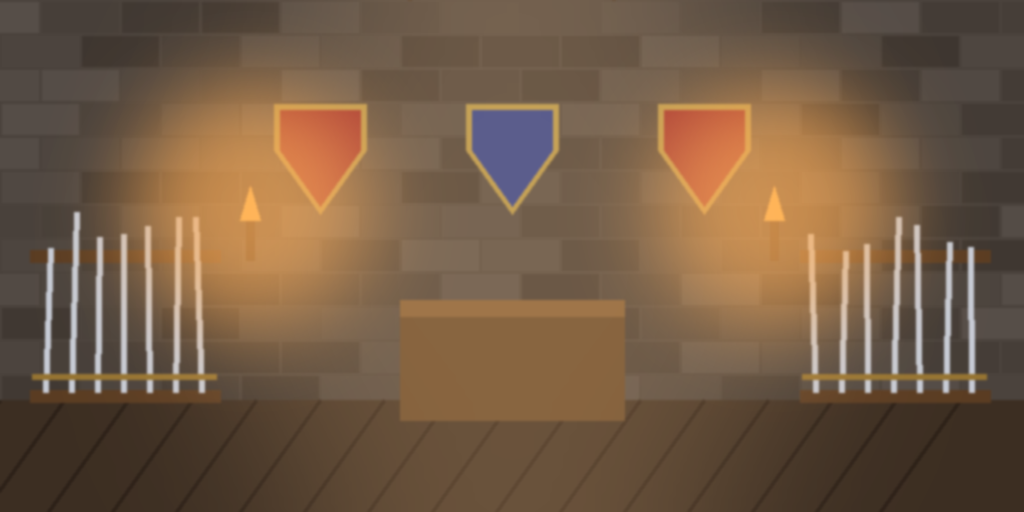
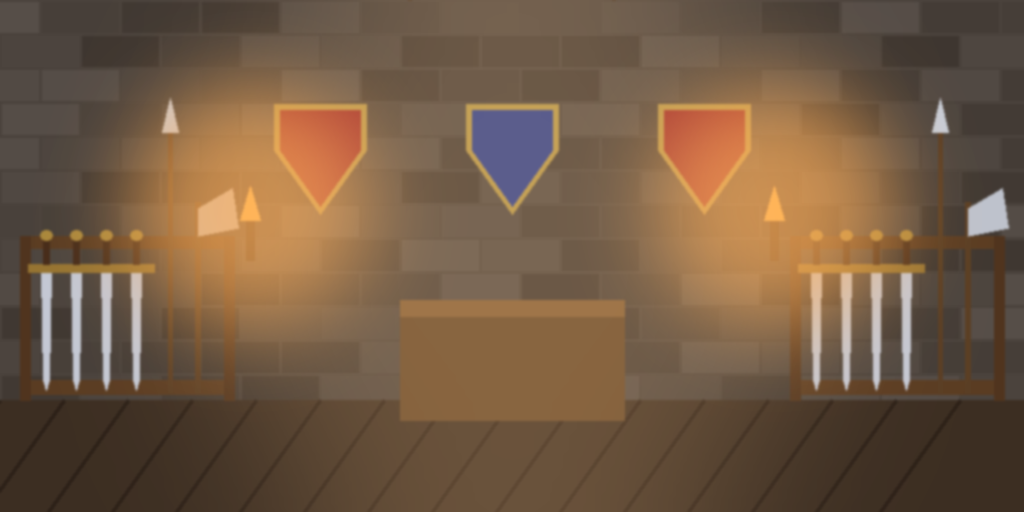
Zbrojownia: poprawiony szkic broni i opis (bez świec)
Claude-Session: https://claude.ai/code/session_01ACpgVGYFhc89V1nkQx4Yem

diff --git a/tools/tla-ai/menu/szkice2.py b/tools/tla-ai/menu/szkice2.py
@@ -26,8 +26,17 @@ def torch(img, d, x, y):
     glow(img, [(x, y - 14, 120, 170)], (255, 170, 80), 40)
 
 
-def sword(d, x, y, h, tilt=0):
-    d.line([(x, y), (x + tilt, y - h)], fill=(200, 204, 214), width=6); d.line([(x - 14, y - 16), (x + 14, y - 16)], fill=(150, 116, 50), width=6)
+def sword(d, x, y, h, tilt=0): # ostrzem w dół, rękojeść u góry (na stojaku)
+    d.polygon([(x - 5, y - h + 40), (x + 5, y - h + 40), (x + 3, y), (x, y + 10), (x - 3, y)], fill=(196, 200, 212))
+    d.rectangle([x - 18, y - h + 34, x + 18, y - h + 42], fill=(150, 116, 50)); d.rectangle([x - 3, y - h + 6, x + 3, y - h + 34], fill=(70, 44, 26)); d.ellipse([x - 6, y - h, x + 6, y - h + 10], fill=(170, 136, 60))
+
+
+def spear(d, x, y, h):
+    d.line([(x, y), (x, y - h)], fill=(90, 62, 36), width=5); d.polygon([(x - 8, y - h), (x, y - h - 34), (x + 8, y - h)], fill=(200, 204, 214))
+
+
+def axe(d, x, y, h):
+    d.line([(x, y), (x, y - h)], fill=(90, 62, 36), width=6); d.polygon([(x, y - h + 6), (x + 34, y - h - 14), (x + 40, y - h + 26), (x, y - h + 34)], fill=(190, 194, 204))
 
 
 def shield(d, x, y, r, col, rim=(180, 150, 70)):
@@ -39,9 +48,11 @@ def zbrojownia():
     img = Image.new('RGB', (W, H)); d = ImageDraw.Draw(img, 'RGBA'); stone_wall(d, 0, 0, W, 400)
     d.rectangle([0, 400, W, H], fill=(60, 46, 34))
     for i in range(0, W, 64): d.line([(i, 400), (i - 80, H)], fill=(44, 32, 24), width=3)
-    for x0 in (30, 800): # stojaki z bronią po bokach
-        d.rectangle([x0, 250, x0 + 190, 262], fill=(90, 60, 34)); d.rectangle([x0, 390, x0 + 190, 402], fill=(90, 60, 34))
-        for k in range(7): sword(d, x0 + 16 + k * 26, 392, 150 + R.randint(-10, 30), R.randint(-6, 6))
+    for x0 in (20, 790): # stojaki z bronią po bokach: miecze, włócznie i topory
+        d.rectangle([x0, 236, x0 + 214, 248], fill=(90, 60, 34)); d.rectangle([x0, 380, x0 + 214, 394], fill=(90, 60, 34))
+        d.rectangle([x0, 236, x0 + 10, 400], fill=(80, 52, 30)); d.rectangle([x0 + 204, 236, x0 + 214, 400], fill=(80, 52, 30))
+        for k in range(4): sword(d, x0 + 26 + k * 30, 380, 150)
+        spear(d, x0 + 150, 392, 260); axe(d, x0 + 178, 392, 190)
     for x, col in ((320, (150, 30, 34)), (512, (40, 60, 140)), (704, (150, 30, 34))): shield(d, x, 150, 46, col)
     for x in (410, 614): banner(d, x, 0, 230, (130, 26, 30))
     for x in (250, 774): torch(img, d, x, 220)
